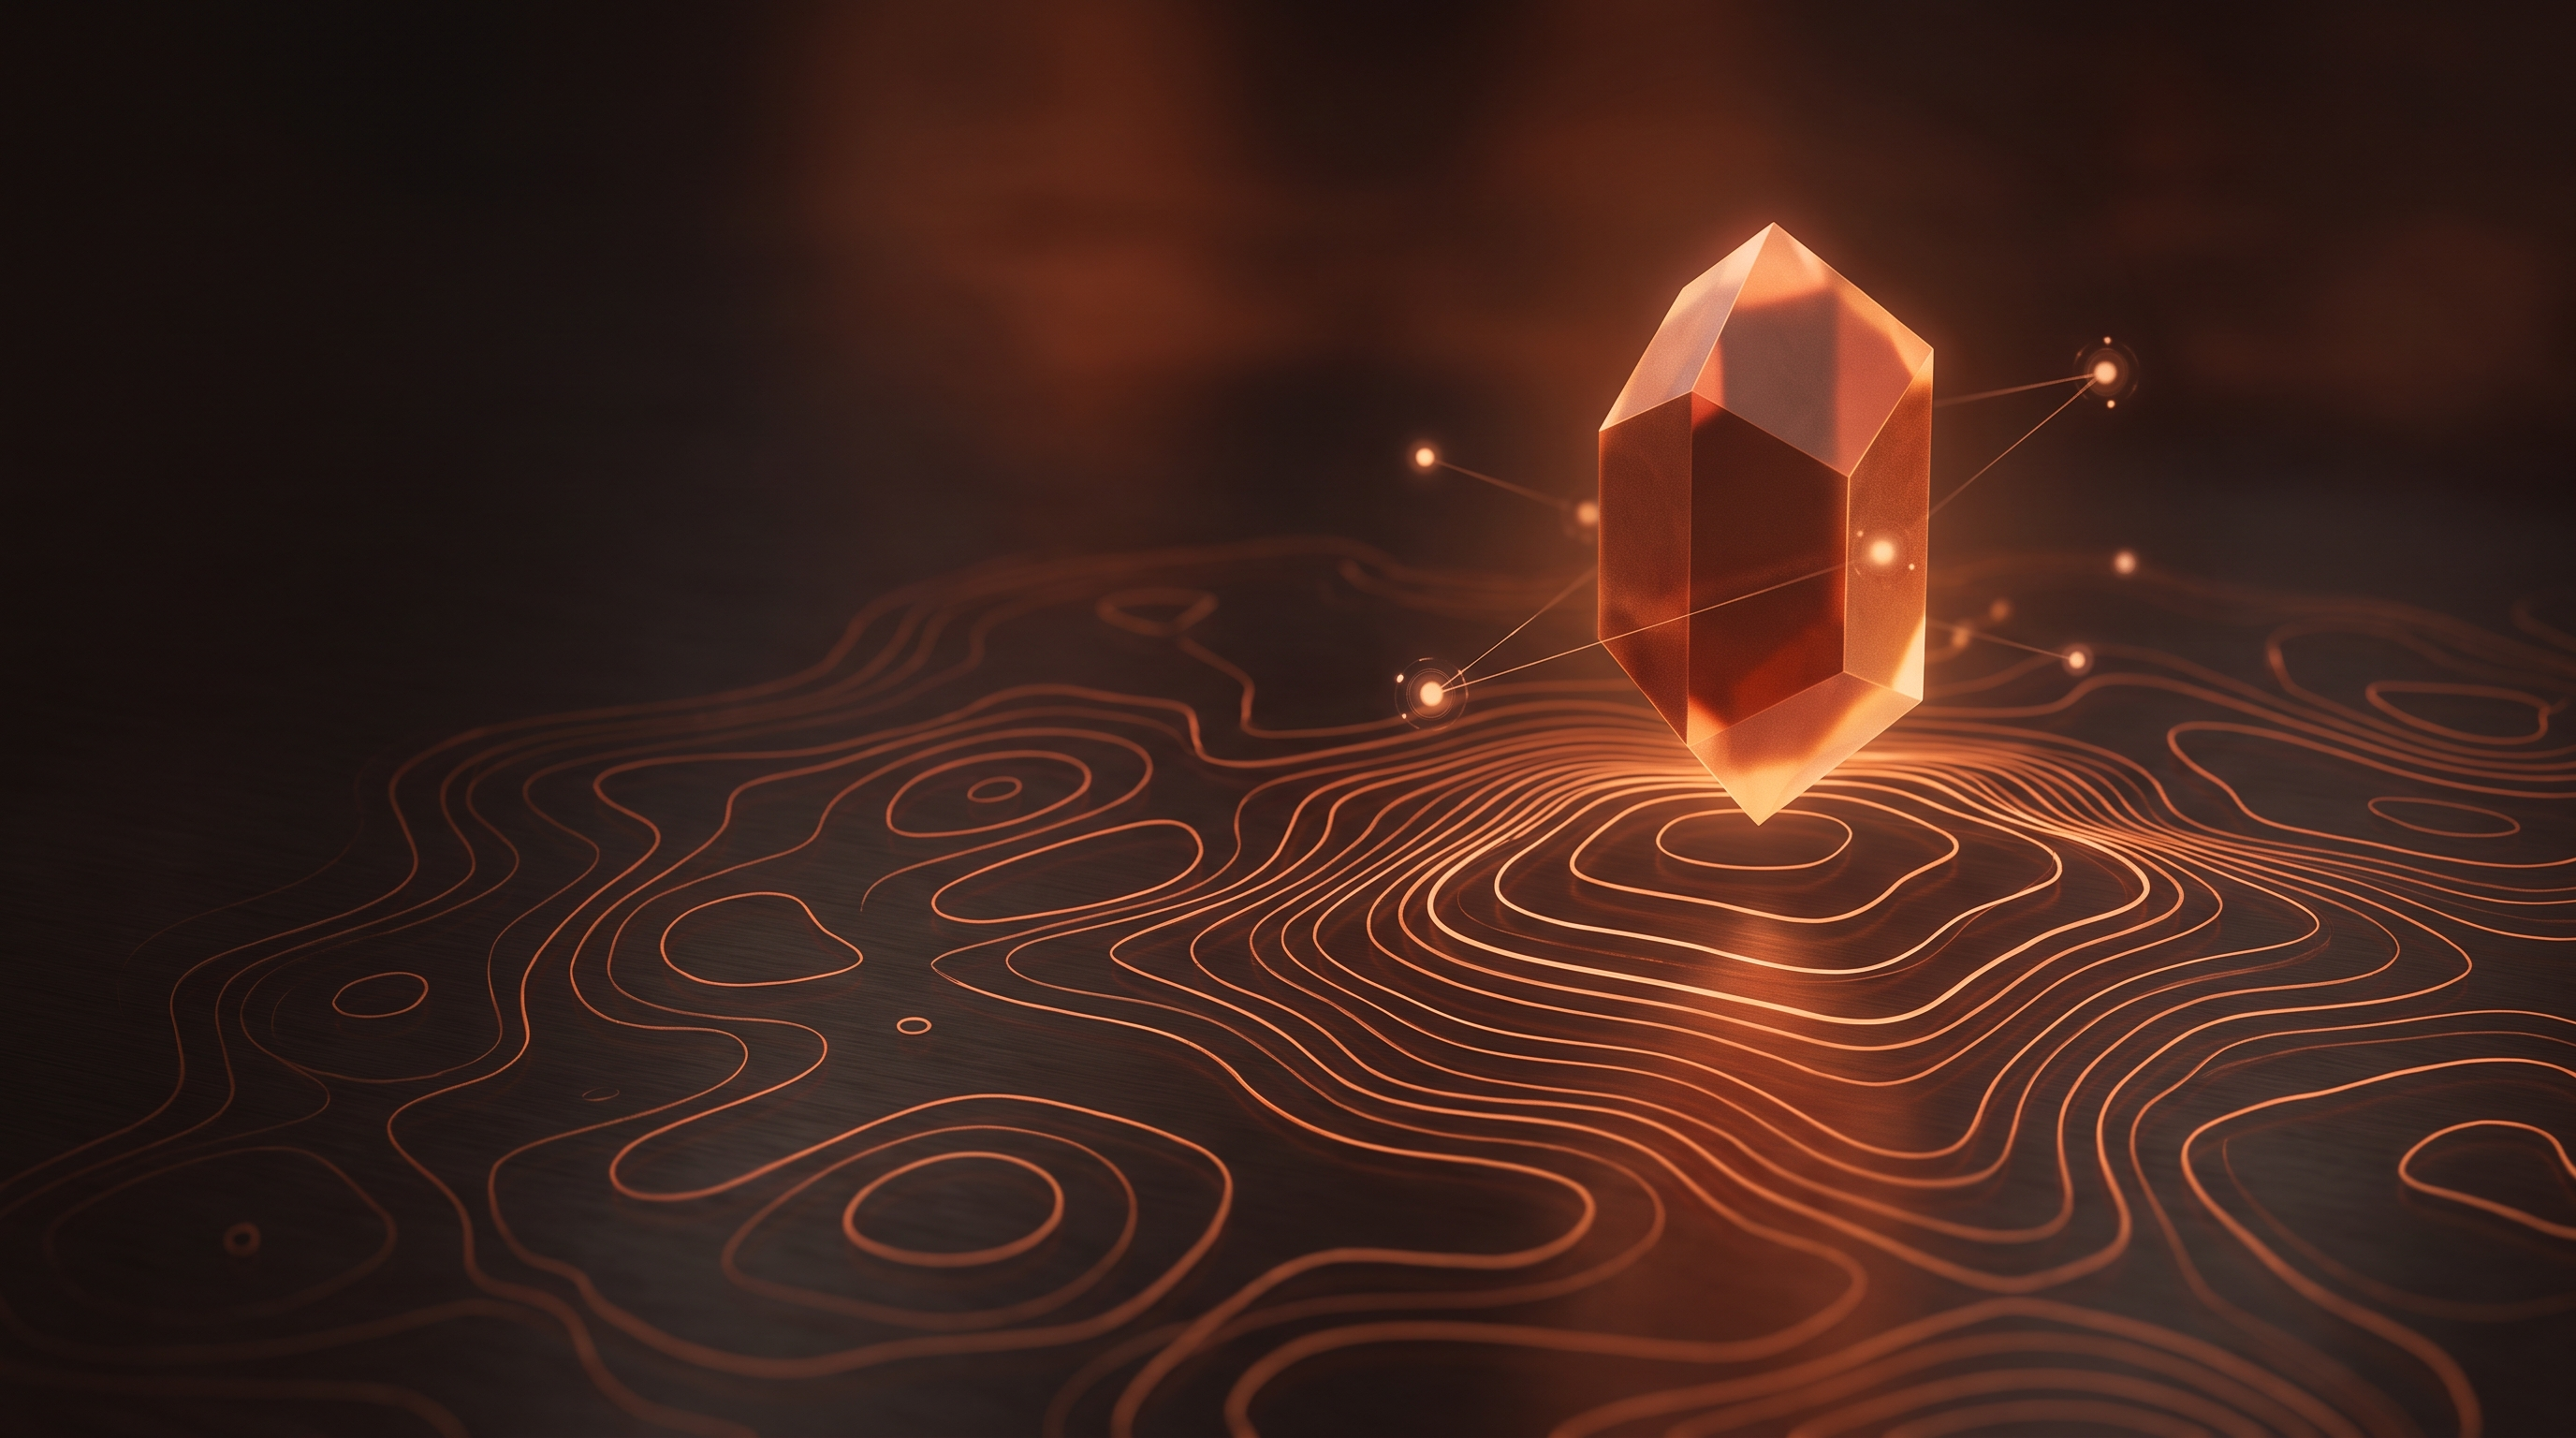
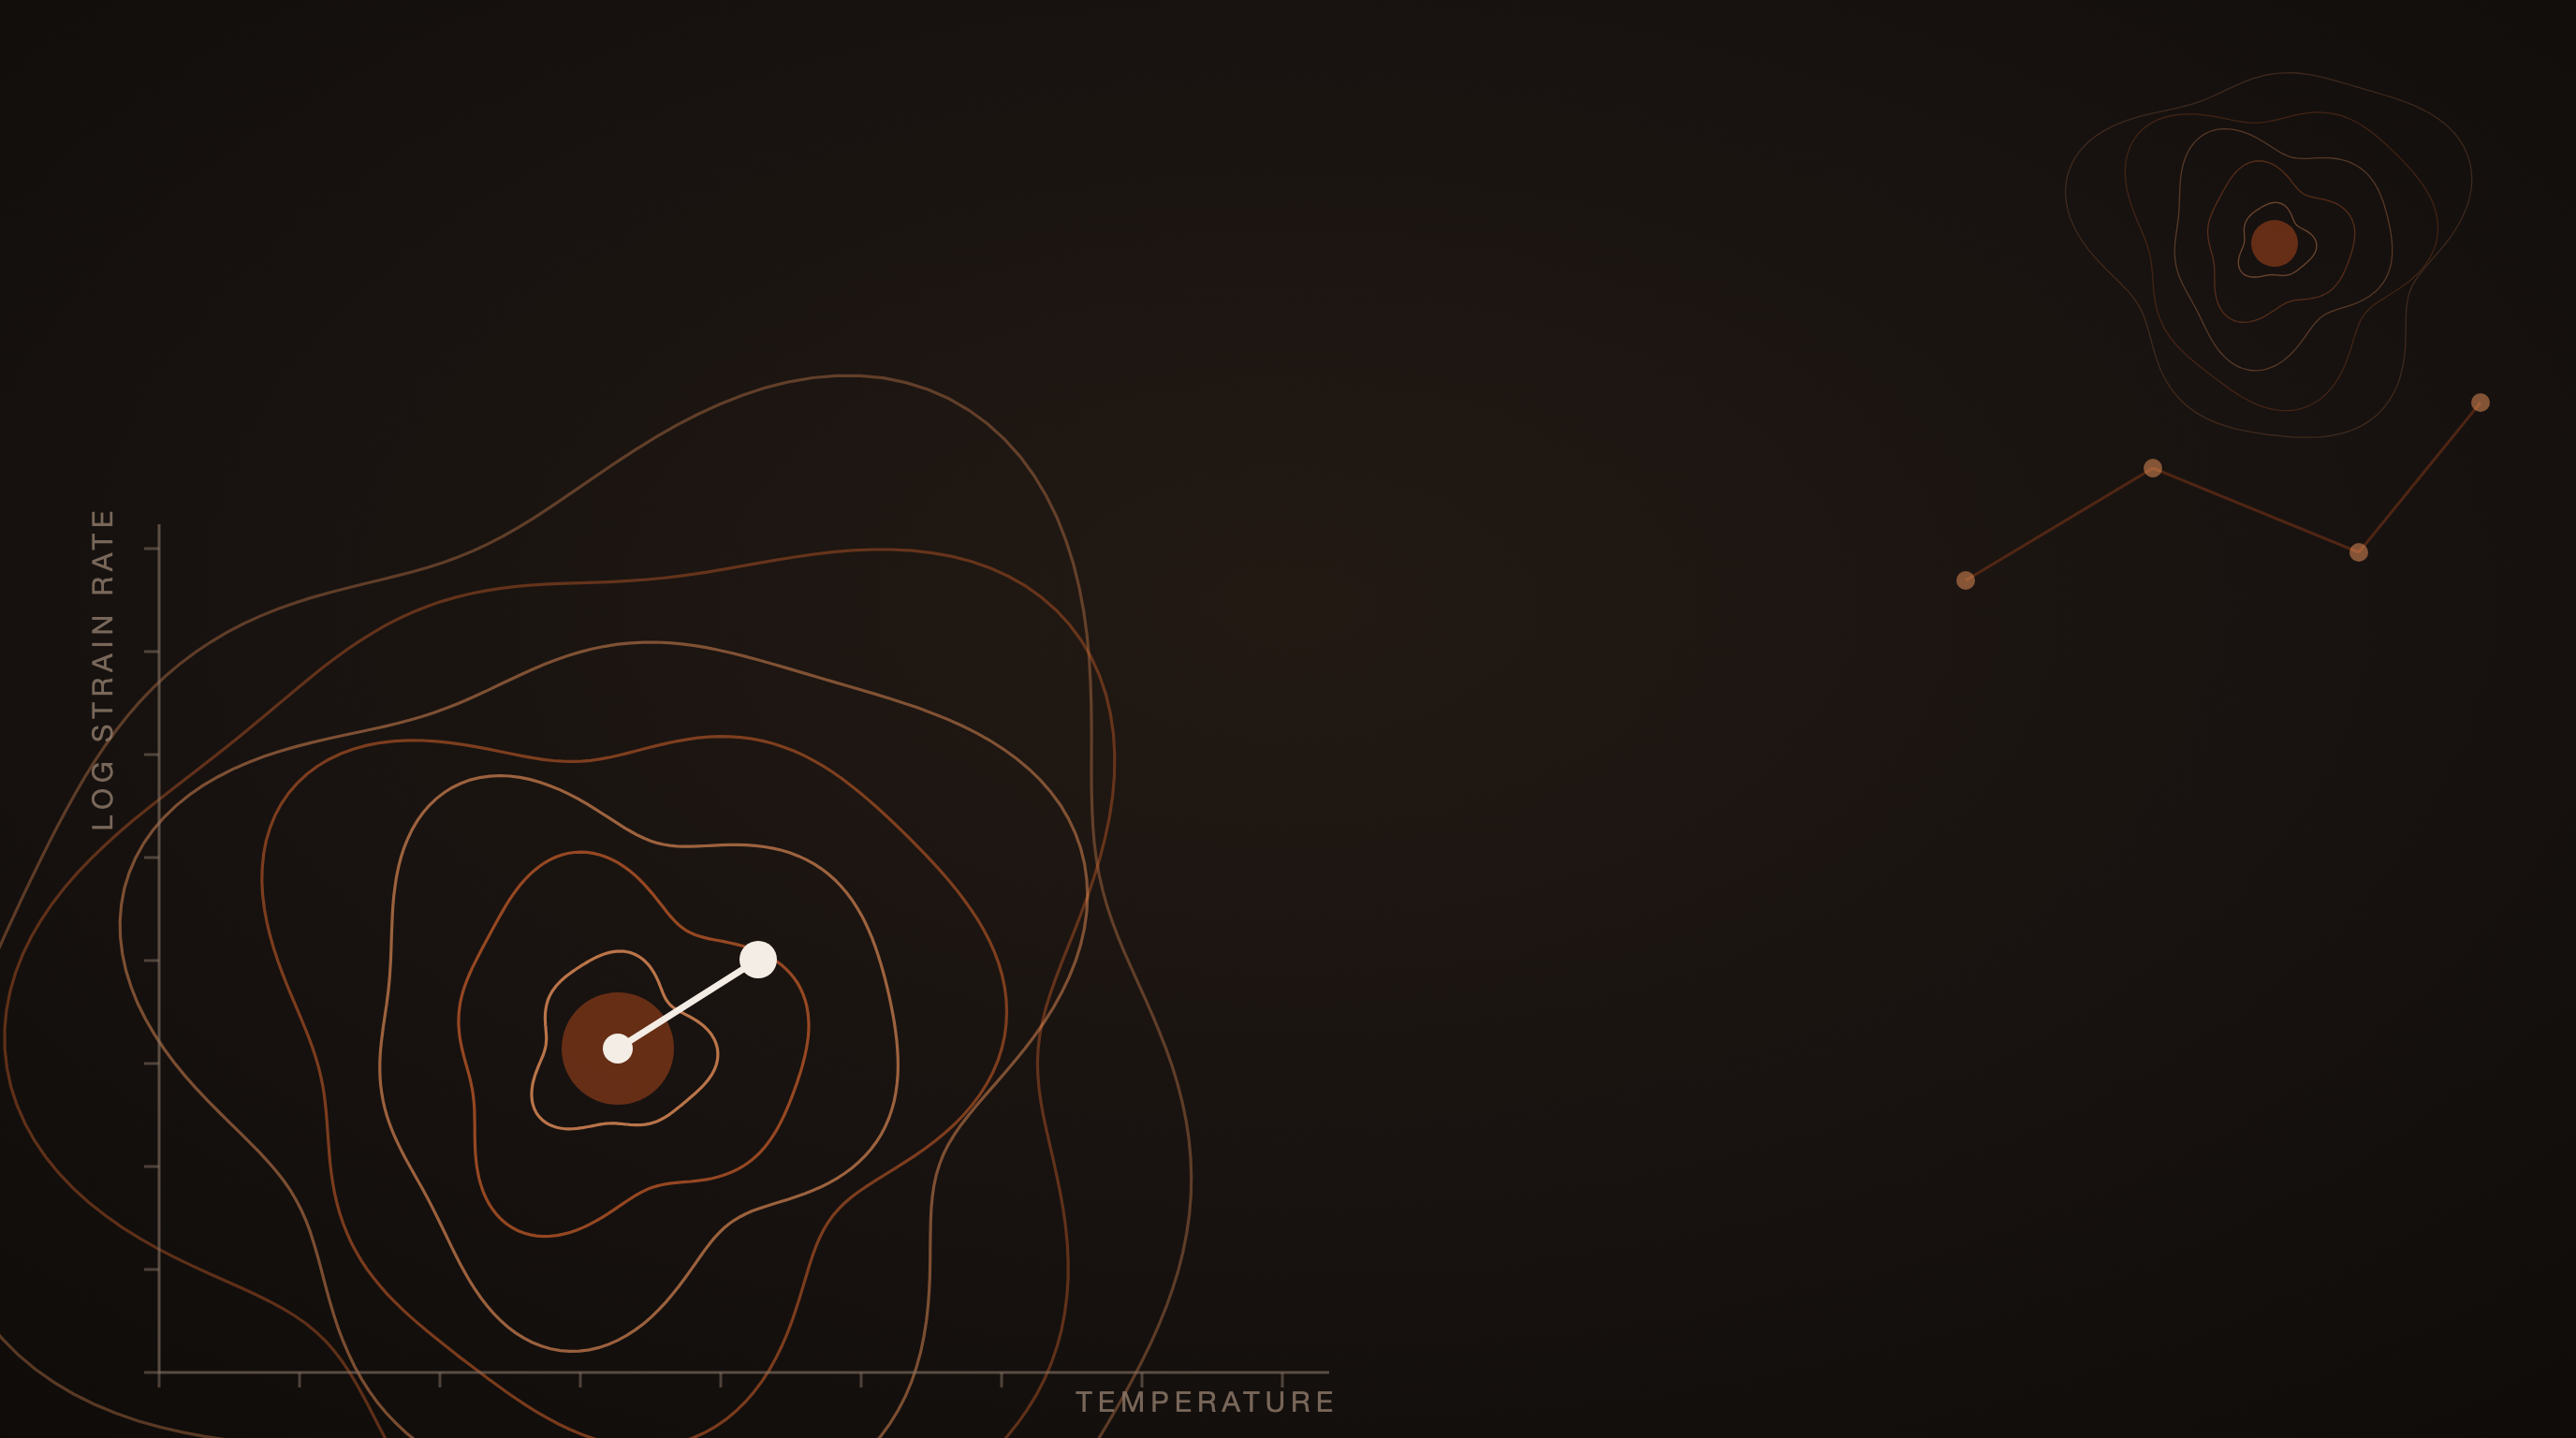
feat: add data-driven hero generator (SVG -> PNG from site data)
- hero-generator/generate_heroes.py reads src/data/*.json and renders
  three brand-tone hero slides via headless Chrome (2752x1536):
  slide1 processing-map contours, slide2 rolling-to-network,
  slide3 publications-per-year bars + real titles + live stats
- Re-running the script after data updates refreshes heroes automatically
- Replaces Gemini-generated raster heroes with reproducible vector output

diff --git a/hero-generator/generate_heroes.py b/hero-generator/generate_heroes.py
@@ -1,0 +1,256 @@
+#!/usr/bin/env python3
+"""AIMAP hero image generator.
+
+src/data/*.json (research/journals/conferences/projects)을 읽어 브랜드 톤
+(버트 오렌지 #D2622B + 웜 차콜)의 히어로 SVG 3장을 그리고, 헤드리스 Chrome으로
+PNG(2752x1536)로 렌더링해 public/images/hero/slide{1,2,3}.png 를 교체한다.
+
+논문/데이터가 갱신되면 다시 실행하는 것만으로 히어로가 최신 내용을 반영한다:
+
+    python3 hero-generator/generate_heroes.py
+
+slide1: processing map 등고선 + 최적점 마커 (로고 세계관, PI의 가공성 맵 연구 오마주)
+slide2: 압연 롤 → 노드 네트워크 (소성가공 헤리티지 x AI)
+slide3: 연도별 논문 실적 막대 + 실제 논문 제목 텍스처 (데이터 기반, 자동 갱신)
+
+주의: 히어로 위에 Vue 오버레이 타이틀이 화면 중앙에 얹히므로, 밝은 요소는
+가장자리·하단에 배치하고 중앙부는 어둡게 비워 둔다.
+"""
+
+import json
+import math
+import pathlib
+import subprocess
+import sys
+
+ROOT = pathlib.Path(__file__).resolve().parent.parent
+DATA = ROOT / "src" / "data"
+OUT = ROOT / "public" / "images" / "hero"
+WORK = pathlib.Path(__file__).resolve().parent / "build"
+
+W, H = 2752, 1536
+ORANGE = "#e0762f"
+DEEP = "#d2622b"
+RUST = "#b6491c"
+EMBER = "#f0955c"
+MUTED = "#8a7666"
+FAINT = "#5e4f42"
+FONT = "Pretendard, 'Helvetica Neue', Helvetica, Arial, sans-serif"
+
+BG = f"""
+  <defs>
+    <radialGradient id="vig" cx="50%" cy="42%" r="80%">
+      <stop offset="0" stop-color="#221913"/>
+      <stop offset="0.55" stop-color="#171210"/>
+      <stop offset="1" stop-color="#0e0b09"/>
+    </radialGradient>
+    <linearGradient id="strip" x1="0" y1="0" x2="1" y2="0">
+      <stop offset="0" stop-color="{ORANGE}"/><stop offset="1" stop-color="{RUST}"/>
+    </linearGradient>
+    <linearGradient id="bar" x1="0" y1="0" x2="0" y2="1">
+      <stop offset="0" stop-color="{EMBER}"/><stop offset="1" stop-color="{RUST}"/>
+    </linearGradient>
+  </defs>
+  <rect width="{W}" height="{H}" fill="url(#vig)"/>
+"""
+
+
+def svg(name: str, body: str) -> pathlib.Path:
+    WORK.mkdir(parents=True, exist_ok=True)
+    path = WORK / f"{name}.svg"
+    path.write_text(
+        f'<svg xmlns="http://www.w3.org/2000/svg" viewBox="0 0 {W} {H}" '
+        f'width="{W}" height="{H}">{BG}{body}</svg>'
+    )
+    return path
+
+
+def contour_path(cx, cy, r, phases, samples=200):
+    pts = []
+    for i in range(samples + 1):
+        t = 2 * math.pi * i / samples
+        rr = r * (1 + 0.14 * math.sin(3 * t + phases[0]) + 0.07 * math.sin(5 * t + phases[1]))
+        pts.append(f"{cx + rr * math.cos(t):.1f},{cy + rr * math.sin(t):.1f}")
+    return "M" + " L".join(pts) + " Z"
+
+
+def contour_cluster(cx, cy, scale=1.0, rings=7, base_opacity=0.75):
+    parts = []
+    for k in range(rings, 0, -1):
+        r = 92 * k * scale
+        op = base_opacity * (0.35 + 0.65 * (rings - k + 1) / rings)
+        parts.append(
+            f'<path d="{contour_path(cx, cy, r, (0.7 * k, 1.9 * k))}" fill="none" '
+            f'stroke="{EMBER if k % 2 else DEEP}" stroke-width="{3.2 * scale:.1f}" opacity="{op:.2f}"/>'
+        )
+    parts.append(f'<circle cx="{cx}" cy="{cy}" r="{60 * scale:.0f}" fill="{RUST}" opacity="0.5"/>')
+    return "".join(parts)
+
+
+def marker(cx, cy, dx, dy, scale=1.0):
+    return (
+        f'<line x1="{cx}" y1="{cy}" x2="{cx + dx}" y2="{cy + dy}" stroke="#f4ede5" '
+        f'stroke-width="{7 * scale:.0f}" stroke-linecap="round"/>'
+        f'<circle cx="{cx}" cy="{cy}" r="{16 * scale:.0f}" fill="#f4ede5"/>'
+        f'<circle cx="{cx + dx}" cy="{cy + dy}" r="{20 * scale:.0f}" fill="#f4ede5"/>'
+    )
+
+
+def load(name):
+    return json.load(open(DATA / f"{name}.json"))
+
+
+def slide1():
+    body = []
+    body.append(contour_cluster(660, 1120, 1.0))
+    body.append(marker(660, 1120, 150, -95))
+    body.append(contour_cluster(2430, 260, 0.42, rings=5, base_opacity=0.4))
+    # processing-map 축 (PI의 가공성 맵 연구 오마주)
+    body.append(
+        f'<line x1="170" y1="1466" x2="1420" y2="1466" stroke="{MUTED}" stroke-width="3" opacity="0.6"/>'
+        f'<line x1="170" y1="1466" x2="170" y2="560" stroke="{MUTED}" stroke-width="3" opacity="0.6"/>'
+    )
+    for i in range(9):
+        x = 170 + i * 150
+        body.append(f'<line x1="{x}" y1="1466" x2="{x}" y2="1482" stroke="{MUTED}" stroke-width="3" opacity="0.5"/>')
+        y = 1466 - i * 110
+        body.append(f'<line x1="154" y1="{y}" x2="170" y2="{y}" stroke="{MUTED}" stroke-width="3" opacity="0.5"/>')
+    body.append(
+        f'<text x="1430" y="1508" font-family="{FONT}" font-size="30" letter-spacing="6" '
+        f'fill="{MUTED}" opacity="0.85" text-anchor="end">TEMPERATURE</text>'
+        f'<text x="120" y="540" font-family="{FONT}" font-size="30" letter-spacing="6" '
+        f'fill="{MUTED}" opacity="0.85" transform="rotate(-90 120 540)" text-anchor="end">LOG STRAIN RATE</text>'
+    )
+    # 우상단 희미한 노드 별자리
+    nodes = [(2100, 620), (2300, 500), (2520, 590), (2650, 430)]
+    for i in range(len(nodes) - 1):
+        (x1, y1), (x2, y2) = nodes[i], nodes[i + 1]
+        body.append(f'<line x1="{x1}" y1="{y1}" x2="{x2}" y2="{y2}" stroke="{RUST}" stroke-width="3" opacity="0.35"/>')
+    for x, y in nodes:
+        body.append(f'<circle cx="{x}" cy="{y}" r="10" fill="{EMBER}" opacity="0.5"/>')
+    return "".join(body)
+
+
+def slide2():
+    body = []
+    # 압연 롤 2개 + 판재
+    strip_y, gap = 1160, 36
+    for cy in (strip_y - 170 - gap, strip_y + 170 + gap):
+        body.append(
+            f'<circle cx="560" cy="{cy}" r="170" fill="#231b15" stroke="{RUST}" stroke-width="5" opacity="0.95"/>'
+            f'<circle cx="560" cy="{cy}" r="52" fill="#0e0b09" stroke="{MUTED}" stroke-width="4" opacity="0.8"/>'
+        )
+    body.append(
+        f'<path d="M40 {strip_y - 46} L440 {strip_y - 46} L700 {strip_y - 15} L1080 {strip_y - 15} '
+        f'L1080 {strip_y + 15} L700 {strip_y + 15} L440 {strip_y + 46} L40 {strip_y + 46} Z" '
+        f'fill="url(#strip)" opacity="0.95"/>'
+    )
+    # 판재가 노드 네트워크로 변환
+    chain = [(1080, strip_y), (1310, 1090), (1560, 1020), (1830, 930), (2110, 820), (2380, 690)]
+    for i in range(len(chain) - 1):
+        (x1, y1), (x2, y2) = chain[i], chain[i + 1]
+        body.append(f'<line x1="{x1}" y1="{y1}" x2="{x2}" y2="{y2}" stroke="{DEEP}" stroke-width="7" opacity="0.8"/>')
+    for i, (x, y) in enumerate(chain[1:], 1):
+        body.append(f'<circle cx="{x}" cy="{y}" r="17" fill="{EMBER if i % 2 else ORANGE}"/>')
+    # 우상단 분기 별자리
+    consts = [(2380, 690), (2530, 520), (2680, 600), (2560, 350), (2700, 240)]
+    links = [(0, 1), (1, 2), (1, 3), (3, 4)]
+    for a, b in links:
+        (x1, y1), (x2, y2) = consts[a], consts[b]
+        body.append(f'<line x1="{x1}" y1="{y1}" x2="{x2}" y2="{y2}" stroke="{RUST}" stroke-width="4" opacity="0.55"/>')
+    for x, y in consts[1:]:
+        body.append(f'<circle cx="{x}" cy="{y}" r="11" fill="{EMBER}" opacity="0.75"/>')
+    # 좌상단 희미한 육각 결정
+    hx, hy, hr = 300, 300, 150
+    pts = " ".join(
+        f"{hx + hr * math.cos(math.radians(60 * i - 90)):.0f},{hy + hr * math.sin(math.radians(60 * i - 90)):.0f}"
+        for i in range(6)
+    )
+    body.append(f'<polygon points="{pts}" fill="none" stroke="{FAINT}" stroke-width="4" opacity="0.5"/>')
+    return "".join(body)
+
+
+def slide3():
+    journals = load("journals")
+    research = load("research")
+    conferences = load("conferences")
+    projects = load("projects")
+
+    years = {}
+    for p in journals:
+        y = int(str(p.get("year", 0))[:4] or 0)
+        if y:
+            years[y] = years.get(y, 0) + 1
+    y_min, y_max = min(years), max(years)
+    n = y_max - y_min + 1
+    peak = max(years.values())
+
+    body = []
+    # 상단: 실제 논문 제목 텍스처 (최신순)
+    titles = [str(p.get("title", "")) for p in reversed(journals)]
+    rows = [" · ".join(titles[i::3])[:400] for i in range(3)]
+    for i, row in enumerate(rows):
+        body.append(
+            f'<text x="40" y="{86 + i * 58}" font-family="{FONT}" font-size="30" '
+            f'fill="{FAINT}" opacity="{0.5 - 0.1 * i}">{row.replace("&", "&amp;").replace("<", "&lt;")}</text>'
+        )
+    # 하단: 연도별 논문 막대 (데이터 기반 — 논문 추가 시 자동 갱신)
+    margin, base = 150, 1450
+    bw = (W - 2 * margin) / n * 0.62
+    for y in range(y_min, y_max + 1):
+        c = years.get(y, 0)
+        if not c:
+            continue
+        x = margin + (y - y_min) / (n - 1) * (W - 2 * margin) - bw / 2
+        h = 60 + (c / peak) * 300
+        body.append(
+            f'<rect x="{x:.0f}" y="{base - h:.0f}" width="{bw:.0f}" height="{h:.0f}" rx="8" '
+            f'fill="url(#bar)" opacity="0.9"/>'
+            f'<rect x="{x:.0f}" y="{base - h:.0f}" width="{bw:.0f}" height="6" rx="3" fill="{EMBER}"/>'
+        )
+        if y % 5 == 0 or y == y_max:
+            body.append(
+                f'<text x="{x + bw / 2:.0f}" y="1502" font-family="{FONT}" font-size="28" '
+                f'fill="{MUTED}" opacity="0.8" text-anchor="middle">{y}</text>'
+            )
+    # 우상단: 실적 스탯 (데이터 기반)
+    stats = [
+        (len(journals), "JOURNAL ARTICLES"),
+        (len(conferences), "CONFERENCE TALKS"),
+        (len(projects), "RESEARCH PROJECTS"),
+        (len(research), "RESEARCH AREAS"),
+    ]
+    for i, (num, label) in enumerate(stats):
+        yy = 320 + i * 92
+        body.append(
+            f'<text x="2160" y="{yy}" font-family="{FONT}" font-size="64" font-weight="700" '
+            f'fill="{EMBER}" text-anchor="end" opacity="0.95">{num}</text>'
+            f'<text x="2195" y="{yy}" font-family="{FONT}" font-size="26" letter-spacing="4" '
+            f'fill="{MUTED}" opacity="0.8">{label}</text>'
+        )
+    return "".join(body)
+
+
+CHROME = "/Applications/Google Chrome.app/Contents/MacOS/Google Chrome"
+
+
+def main():
+    slides = {"slide1": slide1(), "slide2": slide2(), "slide3": slide3()}
+    for name, body in slides.items():
+        path = svg(name, body)
+        png = WORK / f"{name}.png"
+        png.unlink(missing_ok=True)
+        subprocess.run(
+            [CHROME, "--headless=new", "--disable-gpu", "--hide-scrollbars",
+             f"--screenshot={png}", f"--window-size={W},{H}", path.as_uri()],
+            check=True, capture_output=True,
+        )
+        if not png.exists():
+            sys.exit(f"render failed: {name}")
+        target = OUT / f"{name}.png"
+        target.write_bytes(png.read_bytes())
+        print(f"OK {target}")
+
+
+if __name__ == "__main__":
+    main()